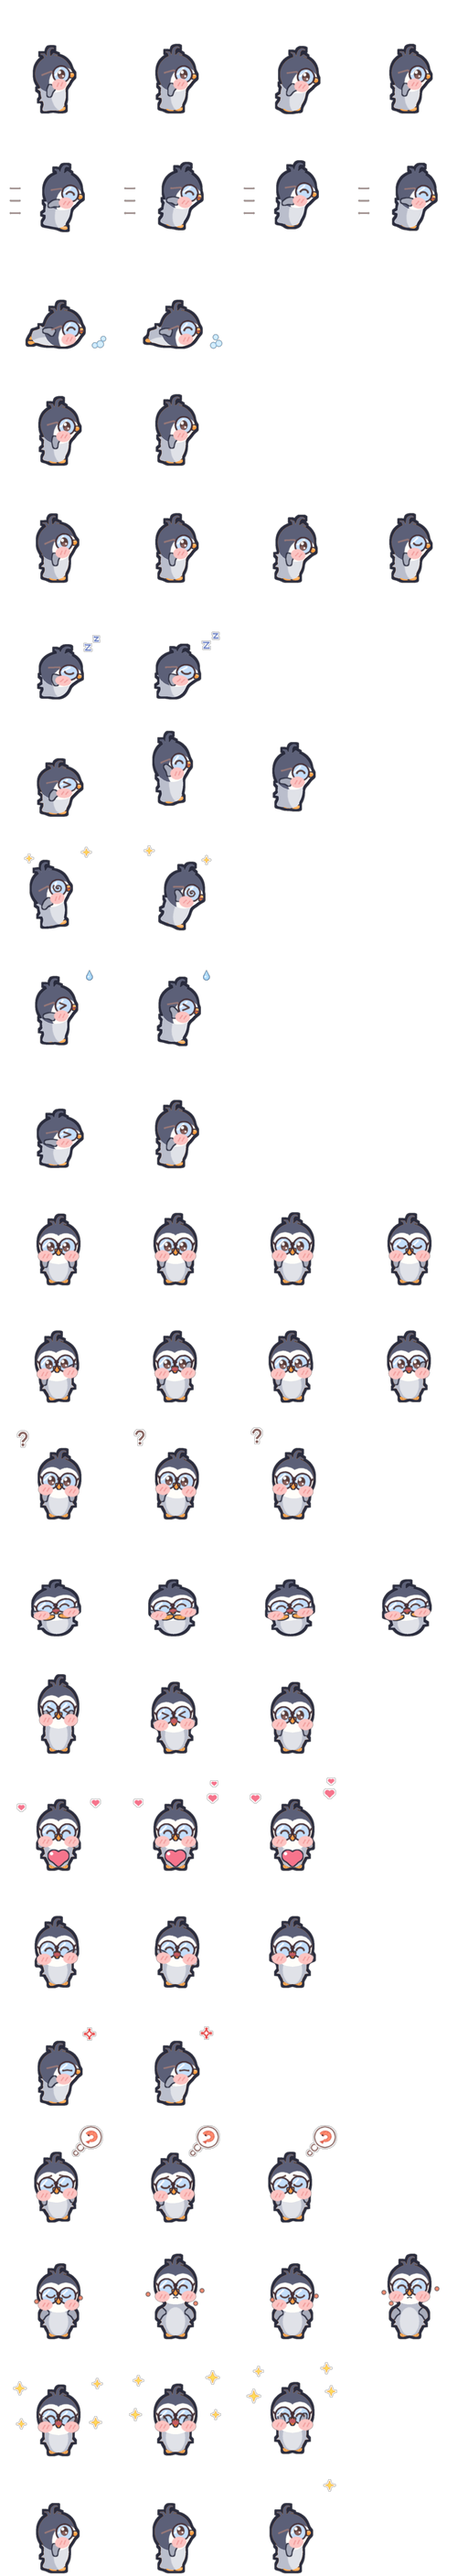
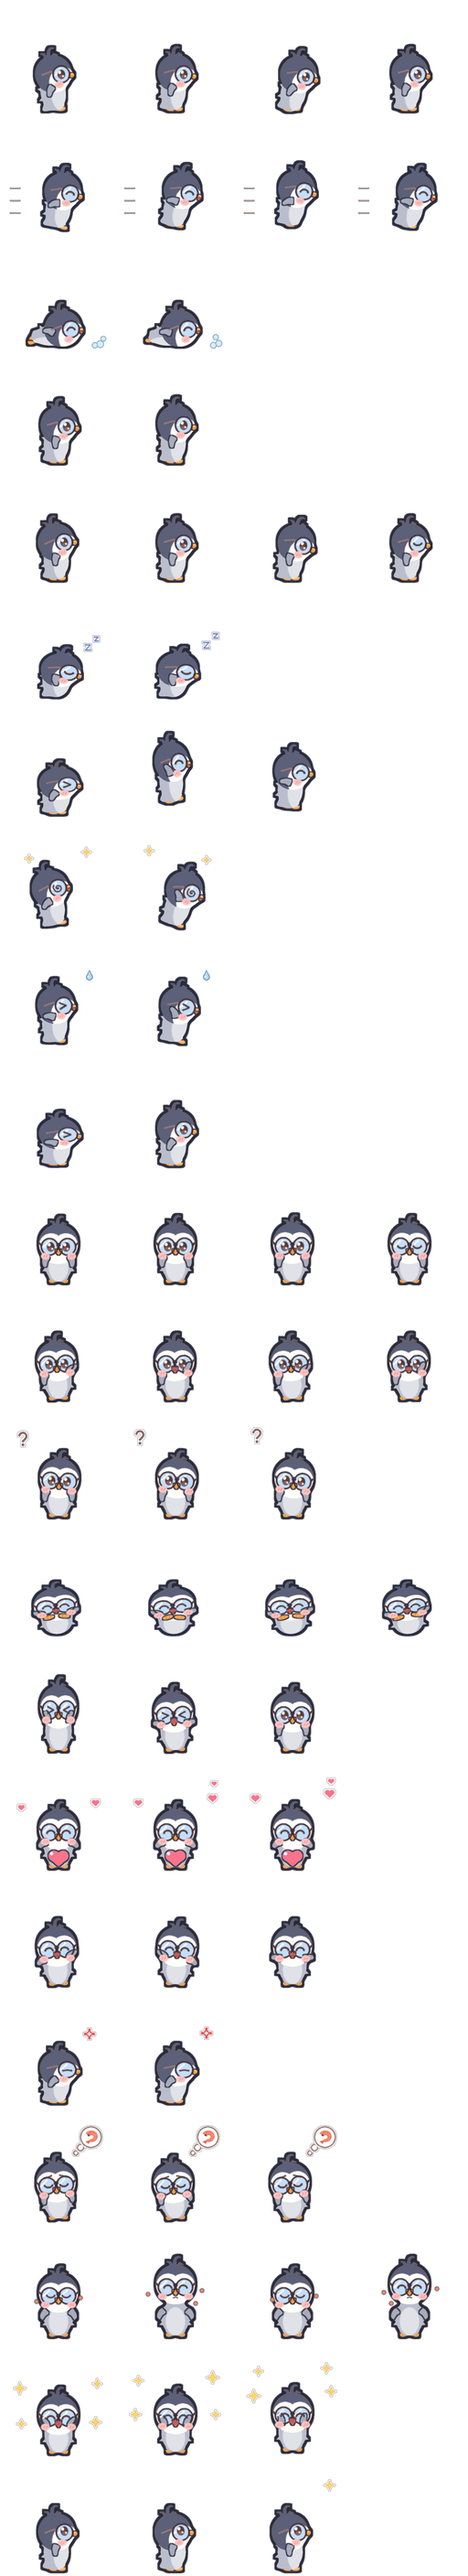
art: smaller penguin blush

diff --git a/tools/draw_penguin.py b/tools/draw_penguin.py
@@ -59,6 +59,9 @@ PG_STAGE = {
     4: dict(chick=False, fluff=0, fuzz=False, flip=1.04, tie=True),
 }
 
+# 볼터치 크기 (사용자: 부끄럼 볼터치가 너무 커서 줄임)
+PENGUIN_BLUSH = 0.6
+
 
 def _pg():
     return PG_STAGE[_ST["lvl"]]
@@ -234,7 +237,7 @@ def side_head(hx, hy, hr, eyes, mouth, brow, head_rot=0.0):
         face = rims + glint + list(dp.stage_eye(eyes, ex, ey))
         if brow:
             face += dp.brows(brow, ex, ey + _ST["eye_dy"], flip=True)
-        face += dp.blush(hx + hr * 0.26, hy + hr * 0.64)  # 볼은 렌즈 아래
+        face += dp.blush(hx + hr * 0.26, hy + hr * 0.64, PENGUIN_BLUSH)  # 볼은 렌즈 아래
     return hpart, bp, face + bo
 
 
@@ -310,7 +313,7 @@ def penguin(sp, *, side=True, bottom=None, cx=64.0, sq=(1.0, 1.0), rot=0.0, eyes
                         face += dp.stage_eye(eyes, ex, hy + hr * 0.06, flip)
                         if brow:
                             face += dp.brows(brow, ex, hy + hr * 0.06 + _ST["eye_dy"], flip=flip)
-                    face += dp.blush(hx - hr * 0.68, hy + hr * 0.64) + dp.blush(hx + hr * 0.68, hy + hr * 0.64)  # 볼은 렌즈 아래
+                    face += dp.blush(hx - hr * 0.68, hy + hr * 0.64, PENGUIN_BLUSH) + dp.blush(hx + hr * 0.68, hy + hr * 0.64, PENGUIN_BLUSH)  # 볼은 렌즈 아래
                 parts += late
                 fl, fr = flips or (12, 12)
                 for s, a in ((-1, fl), (1, fr)):

diff --git a/tools/draw_pets.py b/tools/draw_pets.py
@@ -501,11 +501,14 @@ def thought_fx(cx, cy, r=12.5):
     return fx
 
 
-def blush(cx, cy):
+def blush(cx, cy, k=1.0):
+    """볼터치 (k: 크기 배율 — 펭귄은 작게)"""
     bx, by = _ST["blush"]
+    bx, by = bx * k, by * k
     ops = [([E(cx - 7.5 * bx, cy - 5 * by, cx + 7.5 * bx, cy + 5 * by)], BLUSH)]
     for dx in (-3, 2):
-        ops.append(([L([(cx + dx, cy + 2), (cx + dx + 2.4, cy - 2)], 1.2)], BLUSH_LINE))
+        dx *= k
+        ops.append(([L([(cx + dx, cy + 2 * k), (cx + dx + 2.4 * k, cy - 2 * k)], 1.2 * min(1.0, k + 0.2))], BLUSH_LINE))
     return ops
 
 

diff --git a/tools/draw_pixel.py b/tools/draw_pixel.py
@@ -220,9 +220,10 @@ def stage_eye(kind, cx, cy, flip=False):
     return [([_stamp(cx, cy, _eye_rows(kind, flip), pal)], None)]
 
 
-def blush(cx, cy):
+def blush(cx, cy, k=1.0):
     n = _PX["grid"].n
-    rows = ["bbb"] if n >= 28 else ["bb"]
+    small = k < 0.8
+    rows = (["bb"] if small else ["bbb"]) if n >= 28 else (["b"] if small else ["bb"])
     return [([_stamp(cx, cy, rows, {"b": BLUSH_COL})], None)]
 
 
